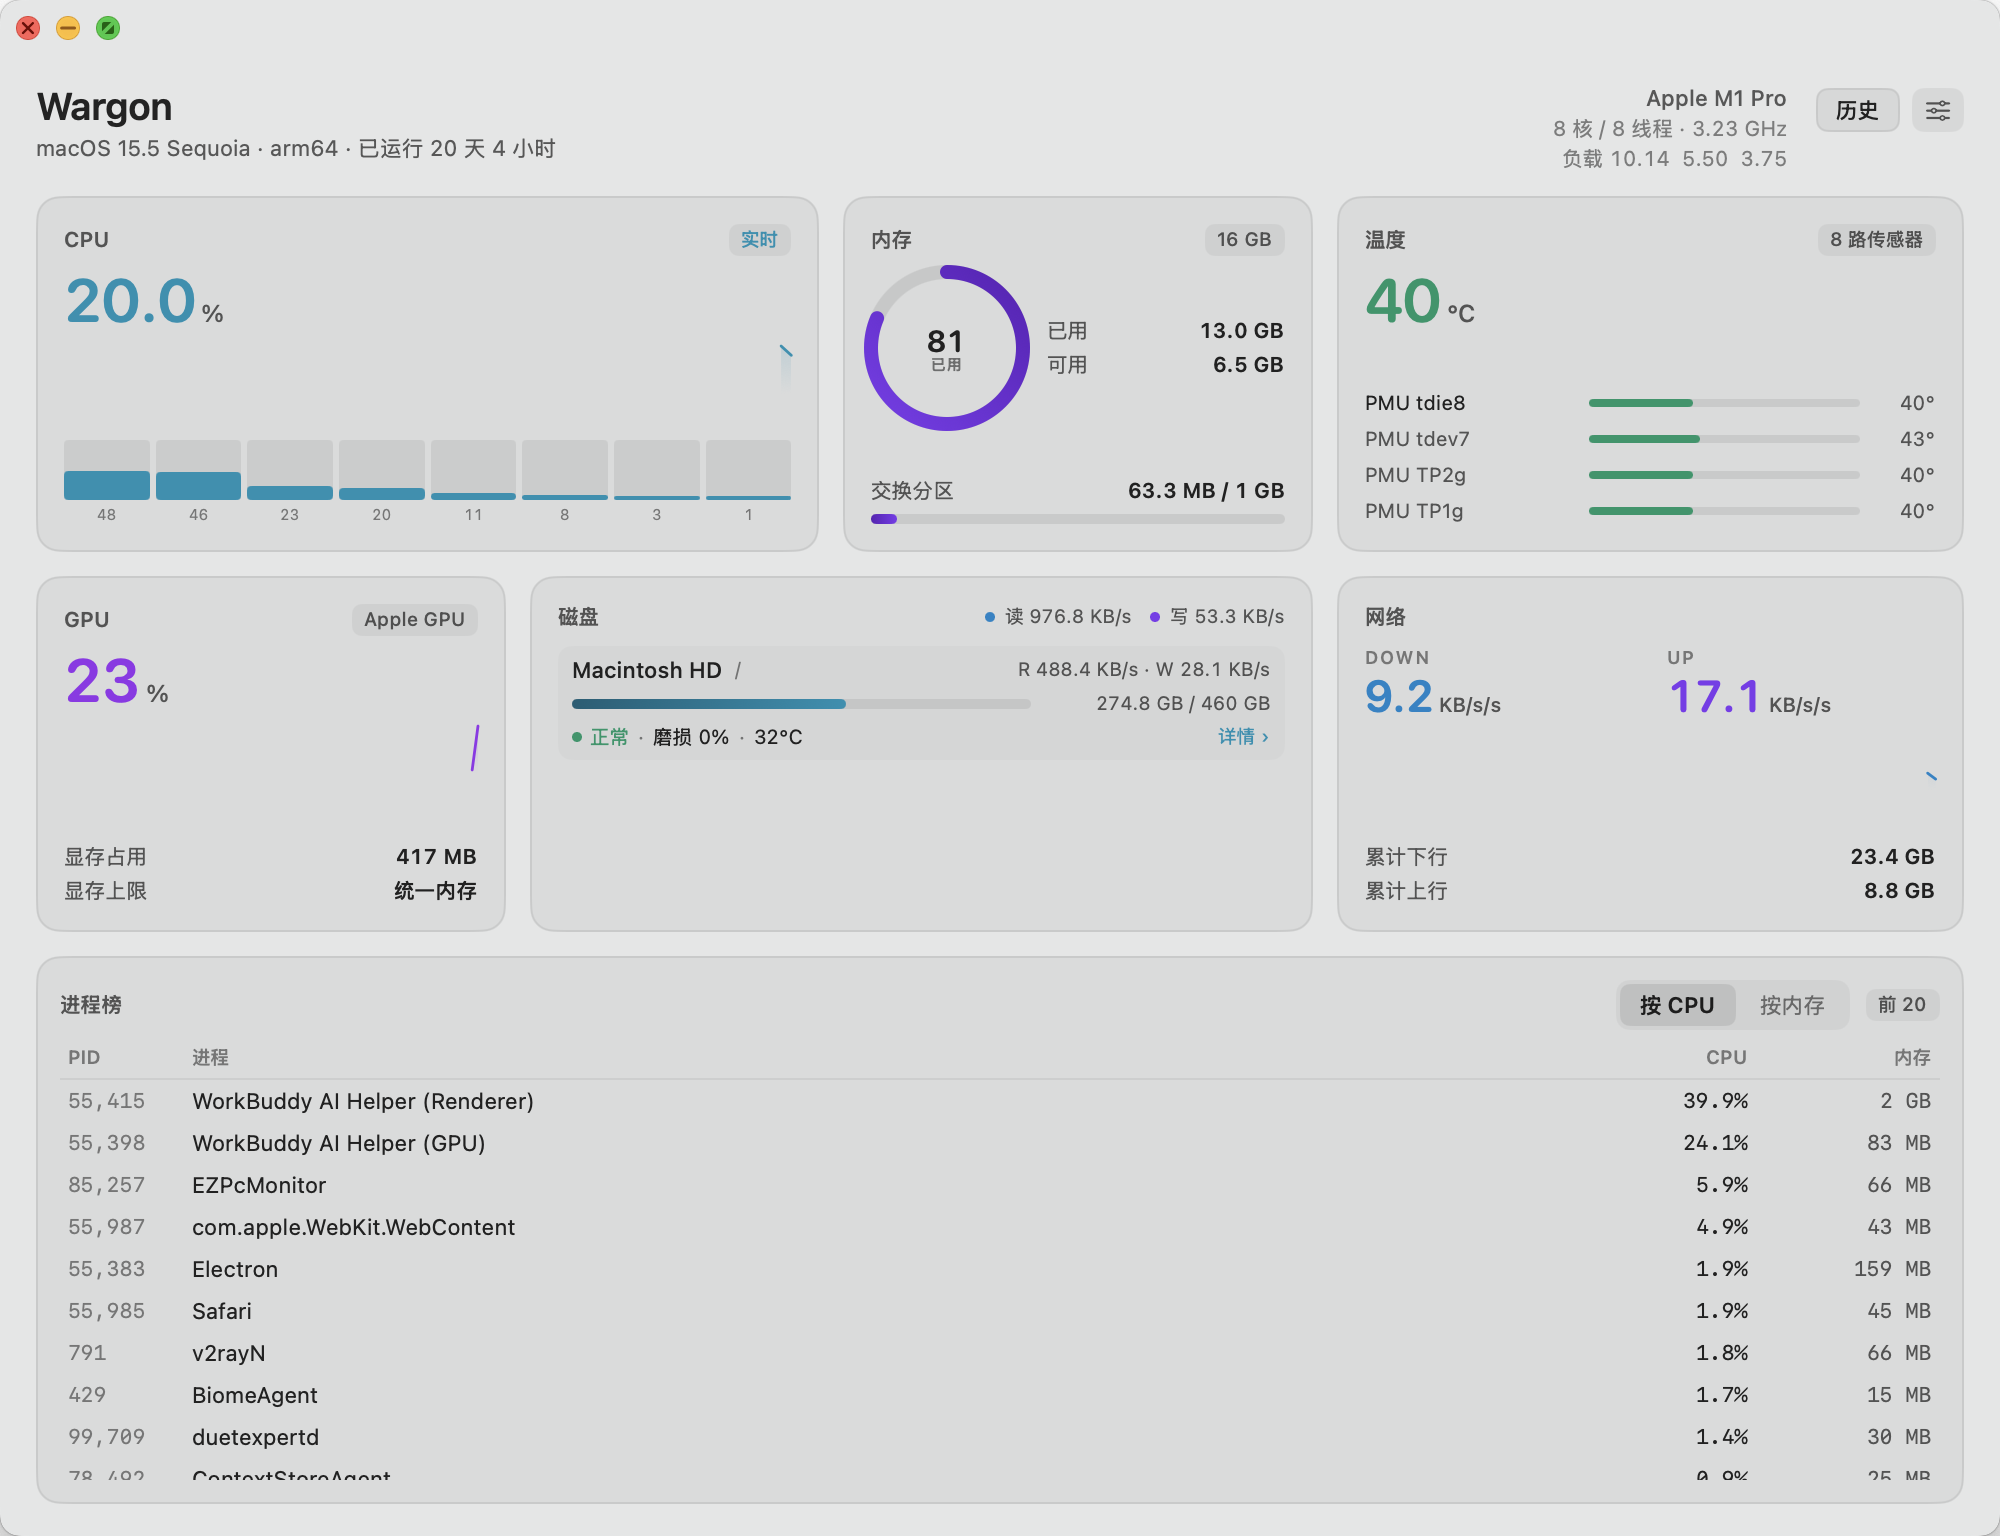
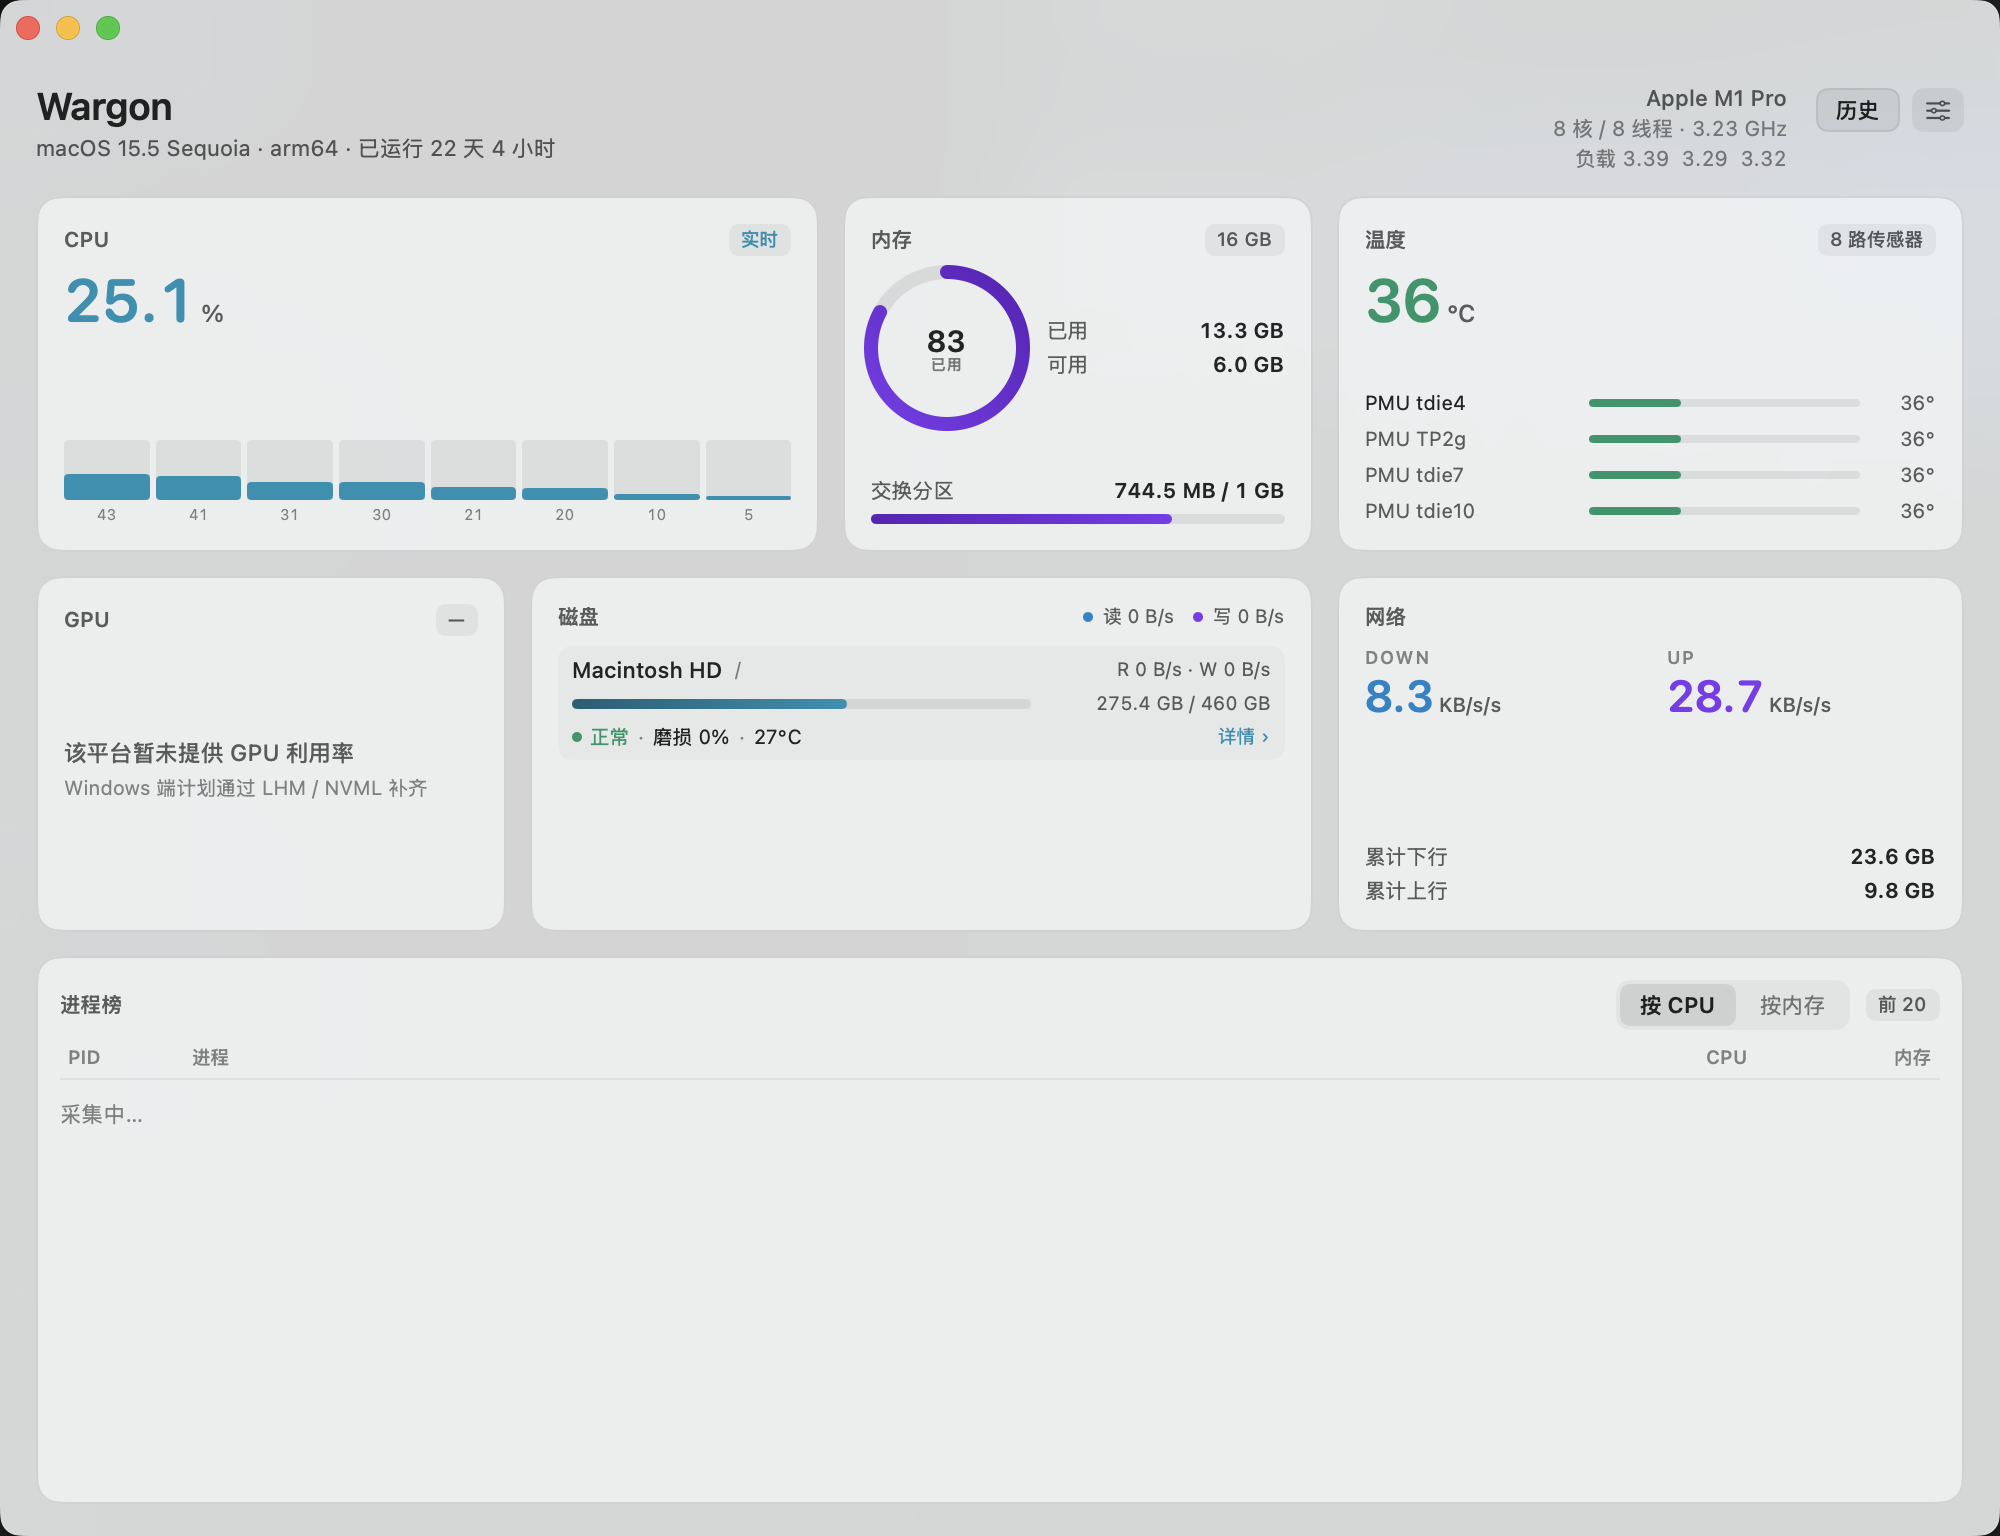
docs: 下限 10% 与卡片磨砂的来龙去脉
- ADR-031：10% 那档的可读性实测表（副标题 4.85:1）、`.thinMaterial` 为什么
  不能用（卡片和缝隙只差 1~2 级）、为什么是 `.withinWindow` 而不是
  `.behindWindow`、提亮 0.12 是怎么试出来的（0.07 差 9 级、0.18 差 34 级）
- README 重写滑杆那段（10%~100%）并新增「卡片是磨砂的」一节
- 四张主面板截图全部重拍（卡片换了材质）
- 三档对比图换成 10 / 50 / 100
- PERF 补一行（主面板 34 MB，没变）

diff --git a/docs/DECISIONS.md b/docs/DECISIONS.md
@@ -1055,3 +1055,59 @@ ZStack {
 
 **占用**：`.app` 6.4 MB、二进制 5.3 MB、悬浮窗 17 MB 不变；主面板 34 MB、图片背景
 36 MB，都在噪声带内（上一版 33 / 36）。
+
+## ADR-031 · 下限放到 10%，卡片改成磨砂面板
+
+**需求**（用户原话）：「最低透明度改为 10%。另外，主面板的各区块不要和程序的背景一种透明
+效果，加上磨砂效果，用来区分。」
+
+**一、下限 0.6 → 0.1**
+
+只改 `Backdrop.opacityRange` 一个常量，设置窗口和渲染层共用它，没有第二处要改。
+`veil` 里那套「越透明纱越厚」的曲线自动跟着走（它的归一化用同一个 `lowerBound`），
+所以 10% 这一档纱最厚：深色纯色 0.38。
+
+这一档还是可读性的下限，不是随手定的：纯白窗口垫底、滑杆 10%，
+
+| 位置 | 对比度 |
+|---|---|
+| 主标题（白） | 5.50:1 |
+| 副标题（`Ink.secondary`，白 72%） | **4.85:1** |
+| 卡片标题（在磨砂卡上） | 4.06:1 |
+| 表头（`Ink.tertiary`，白 55%） | 3.07:1 |
+
+副标题刚好在 WCAG 小字线（4.5）上面一点，再往下压就过不去。表头那档在纯白垫底 + 10% 时
+是 3.07——那是「最坏情况 × 最极端设置」，不打算为它再牺牲透明度。
+
+**二、卡片：从「5.5% 的平色」换成磨砂面板**
+
+先量了 SwiftUI 的 `.thinMaterial`：铺在纯色背景上，卡片内部和旁边的缝隙只差 **1~2 级**亮度
+（同一张截图采样：缝隙 `(34,51,69)`，卡片 `(33,53,67)`）。等于没画——这正是用户说的
+「区块和背景一种透明效果」。它到底取了哪一层（桌面还是窗口内容）也没法控制。
+
+改成自己搭，两层：
+
+```swift
+ZStack {
+    MaterialView(material: .popover, blending: .withinWindow)  // 糊窗口里那层背景
+    Color.white.opacity(isDark ? 0.12 : 0.42)                  // 提亮
+}
+```
+
+- **`.withinWindow` 而不是 `.behindWindow`**：卡片该糊的是窗口自己的背景（染色或照片），
+  不是桌面。用 `.behindWindow` 的话，卡片会去采样桌面，纯色背景下会变成一块灰板，把色相
+  全丢掉。
+- **提亮那层才是分离度的来源。** 实测（深色 + ocean 72%）：缝隙 `(41,61,80)` → 卡片
+  `(61,75,88)`，差 **20 级**。试过 0.18，差到 34 级，太亮，卡片会盖过背景；0.07 只有 9 级。
+  0.12 是两者之间。
+- 浅色给到 0.42：浅色主题要的是「比背景白」，给少了卡片会陷进背景里。
+
+只在主面板开（`.environment(\.cardFrost, true)`）：主面板里 7 处 `CardBox`，历史窗口 1 处。
+历史窗口是 opaque 的，磨砂在那儿只是白花内存。
+
+**代价**：卡片的提亮会吃掉一点对比度。卡片标题 5.15:1（100%）/ 4.06:1（10% 纯白垫底），
+比改动前低 0.3 左右——这是「区块要看得出来」必须付的钱。
+
+**占用**：`.app` 6.4 MB、二进制 5.4 MB（+0.1）、悬浮窗 17 MB 全部不变；主面板 34 MB
+（上一版 33~34，噪声带内）。7 个 `NSVisualEffectView` 没量出开销——GPU 那侧的模糊缓冲
+不落在 `phys_footprint` 里。

diff --git a/docs/PERF.md b/docs/PERF.md
@@ -58,6 +58,7 @@ CPU 走 `scripts/probe.swift` 而不是 `top` / `ps`：那两个要 `task_for_pi
 | 2026-10-25 | `6e6cc8d` | 同上，图片背景（照片下垫了一层磨砂） · 背景=image | 6.4 MB | 5.3 MB | 17 MB | 39 MB | 36 MB | 6.2% | 2.4% |
 | 2026-10-25 | `513510d` | 背景不透明度=整层 alpha（能看到桌面了） | 6.4 MB | 5.3 MB | 17 MB | 37 MB | 34 MB | 6.0% | 1.8% |
 | 2026-10-25 | `513510d` | 同上，图片背景 · 背景=image | 6.4 MB | 5.3 MB | 17 MB | 43 MB | 36 MB | 5.5% | 1.7% |
+| 2026-10-27 | `fac213f` | 卡片磨砂 + 下限 10% | 6.4 MB | 5.4 MB | 17 MB | 37 MB | 34 MB | 8.1% | 2.6% |
 
 结论：从基线到现在，磁盘 +0.5 MB，默认路径的内存没动。两笔额外开销都是「用户主动
 要求才付」的：换成自定义图片背景 +4 MB，开着报告预览窗口 +19 MB（关掉就还回去）。
